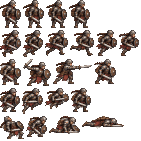
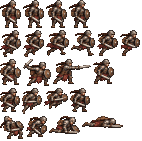
Clean up the female warrior's cut-out
The female warrior sheets had white/grey leftover pixels around the outline
(skirt, knees, shield rim, death poses). Both raw sheets were sent back to
ChatGPT to remove the fringe while keeping every pose and frame position,
then re-sliced with tools/animate.py (warrior_f, warrior_f_block).

Also adds CLAUDE.md, a guide to the project for future Claude Code sessions.

diff --git a/assets/anim/anims.js b/assets/anim/anims.js
@@ -1,2 +1,2 @@
 // generated by tools/animate.py: frame = [x, y, w, h, anchorX, anchorY] in art pixels
-window.ANIMS = {"warrior":{"fly":false,"anims":{"idle":[[0,0,20,28,9.9,28],[22,0,20,28,10.2,28],[44,0,20,28,10.4,28],[66,0,20,28,10.4,28]],"run":[[0,30,23,27,9.6,27],[25,30,22,25,8.9,25],[49,30,21,25,8.4,25],[72,30,23,26,11.0,26],[97,30,21,25,7.6,25],[120,30,21,26,7.4,26]],"attack":[[0,59,23,27,10.7,27],[25,59,30,29,16.0,29],[57,59,41,27,12.5,27],[100,59,24,27,11.4,27]],"jump":[[0,90,23,23,10.6,23],[25,90,24,26,9.6,26],[51,90,25,23,9.2,23],[78,90,23,25,10.6,25]],"death":[[0,118,23,25,13.1,25],[25,118,21,23,9.8,23],[48,118,29,18,15.3,18],[79,118,43,12,21.2,12]]}},"archer":{"fly":false,"anims":{"idle":[[0,0,21,28,7.9,28],[23,0,20,28,7.4,28],[45,0,21,28,7.9,28],[68,0,21,28,8.1,28]],"run":[[0,30,26,27,10.1,27],[28,30,25,26,9.6,26],[55,30,26,26,10.2,26],[83,30,25,26,12.3,26],[110,30,25,25,9.8,25],[137,30,24,26,8.6,26]],"attack":[[0,59,22,27,8.7,27],[24,59,26,27,11.2,27],[52,59,30,28,10.7,28],[84,59,25,27,9.2,27]],"jump":[[0,89,24,22,9.7,22],[26,89,24,23,9.3,23],[52,89,26,22,11.8,22],[80,89,24,23,10.2,23]],"death":[[0,114,24,26,12.9,26],[26,114,26,22,11.2,22],[54,114,31,19,13.7,19],[87,114,45,13,20.5,13]]}},"rogue":{"fly":false,"anims":{"idle":[[0,0,29,27,13.1,27],[31,0,28,28,12.1,28],[61,0,29,26,12.4,26],[92,0,28,25,12.0,25]],"run":[[0,30,29,26,11.0,26],[31,30,30,26,12.3,26],[63,30,33,24,15.8,24],[98,30,32,25,13.2,25],[132,30,30,26,14.7,26],[164,30,29,25,14.3,25]],"attack":[[0,58,27,23,12.5,23],[29,58,35,24,14.2,24],[66,58,45,24,15.9,24],[113,58,29,23,12.8,23]],"jump":[[0,84,27,21,13.5,21],[29,84,28,26,12.6,26],[59,84,28,21,12.7,21],[89,84,28,28,16.8,28]],"death":[[0,114,24,22,12.9,22],[26,114,26,21,12.2,21],[54,114,27,16,13.1,16],[83,114,41,10,19.5,10]]}},"beastmaster":{"fly":false,"anims":{"idle":[[0,0,23,28,11.5,28],[25,0,22,28,10.7,28],[49,0,22,28,11.0,28],[73,0,21,28,10.5,28]],"run":[[0,30,24,26,10.6,26],[26,30,23,26,11.6,26],[51,30,25,23,11.9,23],[78,30,23,26,13.1,26],[103,30,23,26,11.3,26],[128,30,22,26,10.5,26]],"attack":[[0,58,28,26,14.6,26],[30,58,35,28,20.5,28],[67,58,65,24,12.5,24],[134,58,24,26,11.8,26]],"jump":[[0,88,24,21,12.4,21],[26,88,26,28,8.7,28],[54,88,28,23,13.3,23],[84,88,25,29,14.6,29]],"death":[[0,119,26,25,13.5,25],[28,119,24,23,8.9,23],[54,119,35,18,15.6,18],[91,119,45,12,21.3,12]]}},"warrior_f":{"fly":false,"anims":{"idle":[[0,0,21,28,11.3,28],[23,0,21,28,11.0,28],[46,0,21,28,11.5,28],[69,0,21,28,11.5,28]],"run":[[0,30,21,27,8.0,27],[23,30,20,27,7.1,27],[45,30,23,26,10.1,26],[70,30,24,26,12.3,26],[96,30,21,26,7.5,26],[119,30,20,26,6.9,26]],"attack":[[0,59,21,26,10.2,26],[23,59,28,27,15.4,27],[53,59,39,25,11.0,25],[94,59,22,25,10.6,25]],"jump":[[0,88,20,24,8.7,24],[22,88,21,26,6.6,26],[45,88,24,21,8.9,21],[71,88,20,24,9.2,24]],"death":[[0,116,24,23,14.7,23],[26,116,21,21,10.2,21],[49,116,31,18,16.1,18],[82,116,42,13,20.8,13]]}},"archer_f":{"fly":false,"anims":{"idle":[[0,0,22,28,9.1,28],[24,0,21,28,8.6,28],[47,0,21,28,8.7,28],[70,0,21,28,8.5,28]],"run":[[0,30,23,27,8.8,27],[25,30,24,26,10.3,26],[51,30,24,26,9.1,26],[77,30,25,26,13.0,26],[104,30,25,25,10.7,25],[131,30,23,27,9.0,27]],"attack":[[0,59,22,25,9.4,25],[24,59,24,25,10.2,25],[50,59,30,26,10.2,26],[82,59,24,25,10.4,25]],"jump":[[0,87,19,18,8.6,18],[21,87,21,21,9.3,21],[44,87,23,21,10.1,21],[69,87,23,21,10.4,21]],"death":[[0,110,22,18,11.1,18],[24,110,22,16,11.2,16],[48,110,28,14,12.9,14],[78,110,38,11,18.2,11]]}},"rogue_f":{"fly":false,"anims":{"idle":[[0,0,23,27,10.8,27],[25,0,21,28,9.1,28],[48,0,23,27,10.3,27],[73,0,23,27,10.3,27]],"run":[[0,30,20,25,6.7,25],[22,30,20,26,6.1,26],[44,30,22,26,6.0,26],[68,30,20,25,7.4,25],[90,30,21,26,7.7,26],[113,30,19,24,7.7,24]],"attack":[[0,58,23,27,10.3,27],[25,58,27,29,11.3,29],[54,58,34,25,10.0,25],[90,58,23,26,10.0,26]],"jump":[[0,89,19,20,7.6,20],[21,89,22,26,7.0,26],[45,89,23,22,7.9,22],[70,89,22,25,11.5,25]],"death":[[0,117,25,26,12.2,26],[27,117,22,24,10.3,24],[51,117,23,19,10.1,19],[76,117,34,11,16.6,11]]}},"beastmaster_f":{"fly":false,"anims":{"idle":[[0,0,21,28,9.8,28],[23,0,19,28,8.6,28],[44,0,20,28,9.1,28],[66,0,20,28,9.4,28]],"run":[[0,30,19,24,6.2,24],[21,30,20,24,6.7,24],[43,30,20,24,5.7,24],[65,30,20,24,8.4,24],[87,30,20,25,6.8,25],[109,30,19,24,6.2,24]],"attack":[[0,57,24,27,11.9,27],[26,57,26,29,9.6,29],[54,57,40,25,10.4,25],[96,57,22,27,10.1,27]],"jump":[[0,88,21,20,8.9,20],[23,88,23,28,7.6,28],[48,88,22,21,9.1,21],[72,88,21,24,9.3,24]],"death":[[0,118,25,26,11.2,26],[27,118,21,24,9.8,24],[50,118,26,20,11.7,20],[78,118,37,12,18.1,12]]}},"warrior_f_block":{"fly":false,"anims":{"idle":[[0,0,21,28,10.3,28],[23,0,21,28,9.9,28],[46,0,21,27,10.1,27],[69,0,21,27,10.3,27]],"block":[[0,30,23,26,10.7,26],[25,30,24,24,11.8,24],[51,30,27,24,12.2,24],[80,30,22,25,10.4,25]]}},"archer_f_arcane":{"fly":false,"anims":{"idle":[[0,0,22,28,8.6,28],[24,0,21,28,8.6,28],[47,0,21,28,8.6,28],[70,0,20,28,8.1,28]],"arcane":[[0,30,24,28,10.9,28],[26,30,27,30,10.7,30],[55,30,39,30,11.0,30],[96,30,25,27,10.6,27]]}},"slime":{"fly":false,"anims":{"idle":[[0,0,19,11,8.7,11],[21,0,19,11,8.9,11],[42,0,18,14,8.5,14],[62,0,19,12,8.9,12]],"hop":[[0,16,18,7,8.4,7],[20,16,18,19,7.2,19],[40,16,16,13,7.1,13],[58,16,22,11,10.5,11]],"death":[[0,37,19,16,8.8,16],[21,37,22,12,10.6,12],[45,37,21,7,9.9,7],[68,37,19,5,9.9,5]]}},"bat":{"fly":true,"anims":{"fly":[[0,0,18,20,8.8,9.2],[20,0,18,14,8.8,5.9],[40,0,18,13,9.5,6.0],[60,0,17,11,8.1,5.1],[79,0,20,14,10.0,5.5],[101,0,17,20,7.8,9.1]],"attack":[[0,22,22,20,11.1,9.1],[24,22,22,17,11.8,7.8],[48,22,29,18,13.1,7.8],[79,22,23,11,12.2,4.6]],"death":[[0,44,26,21,13.3,9.4],[28,44,19,16,9.5,7.9],[49,44,17,18,7.6,10.3],[68,44,22,7,11.7,3.6]]}},"skeleton":{"fly":false,"anims":{"idle":[[0,0,20,26,6.4,26],[22,0,20,26,6.4,26],[44,0,20,26,6.7,26],[66,0,19,26,6.2,26]],"walk":[[0,28,21,25,6.6,25],[23,28,20,25,6.6,25],[45,28,19,25,5.6,25],[66,28,19,24,5.2,24],[87,28,21,24,7.2,24],[110,28,19,25,4.8,25]],"attack":[[0,55,20,25,7.5,25],[22,55,23,29,14.0,29],[47,55,38,25,9.7,25],[87,55,20,25,8.1,25]],"jump":[[0,86,21,21,7.5,21],[23,86,23,25,6.8,25],[48,86,22,22,7.4,22]],"death":[[0,113,25,24,9.0,24],[27,113,25,24,10.8,24],[54,113,32,16,14.8,16],[88,113,37,10,18.8,10]]}},"goblin":{"fly":false,"anims":{"idle":[[0,0,17,21,6.8,21],[19,0,17,21,6.8,21],[38,0,17,20,6.8,20],[57,0,17,21,7.0,21]],"walk":[[0,23,17,19,6.3,19],[19,23,16,19,5.2,19],[37,23,16,20,4.4,20],[55,23,19,19,7.7,19],[76,23,18,19,6.7,19],[96,23,17,19,6.0,19]],"attack":[[0,45,20,22,7.8,22],[22,45,20,23,8.2,23],[44,45,23,23,8.6,23],[69,45,22,22,9.7,22]],"death":[[0,70,22,22,11.6,22],[24,70,27,21,14.1,21],[53,70,31,16,12.7,16],[86,70,38,10,17.4,10]]}},"ghost":{"fly":true,"anims":{"fly":[[0,0,18,23,8.1,10.2],[20,0,18,21,8.3,9.5],[40,0,18,23,8.4,10.5],[60,0,19,21,9.4,9.7],[81,0,19,21,8.9,9.8],[102,0,18,22,8.2,10.0]],"attack":[[0,25,19,22,9.4,9.8],[21,25,26,22,12.9,9.2],[49,25,32,19,15.5,8.7],[83,25,22,21,11.3,10.0]],"death":[[0,49,23,24,11.1,12.1],[25,49,24,24,12.1,11.4],[51,49,27,22,14.6,8.6],[80,49,21,17,10.9,7.2]]}},"brute":{"fly":false,"anims":{"idle":[[0,0,33,33,12.2,33],[35,0,34,33,12.8,33],[71,0,33,33,11.7,33],[106,0,32,32,11.6,32]],"walk":[[0,35,28,32,9.9,32],[30,35,31,31,11.2,31],[63,35,31,32,9.3,32],[96,35,32,32,10.1,32],[130,35,29,31,9.5,31],[161,35,27,31,7.2,31]],"attack":[[0,69,32,42,15.7,42],[34,69,34,31,16.1,31],[70,69,42,31,16.4,31],[114,69,44,32,13.6,32]],"death":[[0,113,37,35,19.0,35],[39,113,42,30,19.0,30],[83,113,45,23,21.5,23],[130,113,55,18,26.9,18]]}},"warden":{"fly":false,"anims":{"idle":[[0,0,59,51,28.2,51],[61,0,61,51,30.1,51],[124,0,60,52,28.4,52],[186,0,59,51,28.6,51]],"walk":[[0,54,57,48,27.1,48],[59,54,57,46,28.5,46],[118,54,52,47,24.5,47],[172,54,55,47,27.4,47],[229,54,55,46,26.9,46],[286,54,53,46,26.0,46]],"attack":[[0,104,58,51,32.5,51],[60,104,53,62,26.6,62],[115,104,76,46,38.4,46],[193,104,87,45,44.2,45]],"leap":[[0,168,56,41,27.8,41],[58,168,57,50,28.3,50],[117,168,58,54,31.4,54],[177,168,92,43,45.4,43]],"death":[[0,224,60,49,32.4,49],[62,224,67,43,32.8,43],[131,224,81,35,39.4,35],[214,224,104,28,48.1,28]]}},"imp":{"fly":true,"anims":{"fly":[[0,0,17,21,7.8,9.1],[19,0,20,16,10.0,6.4],[41,0,21,16,10.1,6.8],[64,0,16,14,7.3,6.7],[82,0,17,16,8.2,6.4],[101,0,18,20,9.1,8.7]],"attack":[[0,23,17,17,8.5,6.8],[19,23,20,18,10.0,6.8],[41,23,34,17,13.0,6.7],[77,23,21,17,9.4,6.9]],"death":[[0,43,21,18,10.6,8.0],[23,43,21,18,10.7,8.1],[46,43,21,17,10.6,7.0],[69,43,5,5,1.3,2.0]]}},"golem":{"fly":false,"anims":{"idle":[[0,0,37,33,17.5,33],[39,0,37,34,17.9,34],[78,0,37,34,18.8,34],[117,0,37,33,17.9,33]],"walk":[[0,36,34,33,15.3,33],[36,36,38,34,15.6,34],[76,36,39,34,17.0,34],[117,36,31,34,14.3,34],[150,36,30,34,13.4,34],[182,36,33,34,15.3,34]],"attack":[[0,72,44,36,19.2,36],[46,72,40,40,19.4,40],[88,72,51,32,23.0,32],[141,72,57,31,26.4,31]],"death":[[0,114,42,36,20.8,36],[44,114,54,33,26.7,33],[100,114,63,26,30.5,26],[165,114,61,26,29.2,26]]}},"cultist":{"fly":false,"anims":{"idle":[[0,0,22,25,7.9,25],[24,0,22,25,8.4,25],[48,0,25,25,11.1,25],[75,0,23,25,9.1,25]],"walk":[[0,27,22,22,8.2,22],[24,27,22,22,9.0,22],[48,27,22,23,9.1,23],[72,27,22,22,9.4,22],[96,27,23,22,9.8,22],[121,27,23,21,9.5,21]],"attack":[[0,52,23,26,10.6,26],[25,52,24,28,10.0,28],[51,52,43,22,10.8,22],[96,52,25,25,9.3,25]],"death":[[0,82,26,28,13.5,28],[28,82,24,24,12.1,24],[54,82,33,12,14.1,12],[89,82,34,7,16.1,7]]}},"spider":{"fly":false,"anims":{"idle":[[0,0,22,12,10.5,12],[24,0,22,13,10.1,13],[48,0,21,14,10.1,14],[71,0,21,12,10.1,12]],"walk":[[0,16,17,10,8.6,10],[19,16,17,10,7.6,10],[38,16,16,10,8.0,10],[56,16,16,10,7.4,10],[74,16,17,10,7.4,10],[93,16,16,9,7.2,9]],"attack":[[0,28,23,11,10.8,11],[25,28,21,13,8.7,13],[48,28,25,11,11.7,11],[75,28,24,12,12.4,12]],"death":[[0,43,21,13,9.4,13],[23,43,20,14,8.4,14],[45,43,20,14,8.9,14],[67,43,22,10,9.9,10]]}},"knight":{"fly":false,"anims":{"idle":[[0,0,26,27,13.0,27],[28,0,27,27,13.5,27],[57,0,27,27,13.9,27],[86,0,25,27,12.7,27]],"walk":[[0,29,22,25,10.4,25],[24,29,24,25,12.7,25],[50,29,24,25,12.6,25],[76,29,24,24,12.7,24],[102,29,24,25,13.1,25],[128,29,24,25,12.7,25]],"attack":[[0,56,29,27,14.4,27],[31,56,33,28,18.5,28],[66,56,46,25,16.1,25],[114,56,28,27,14.3,27]],"death":[[0,86,32,27,16.7,27],[34,86,33,22,17.2,22],[69,86,41,17,21.3,17],[112,86,47,13,23.4,13]]}},"warrior_block":{"fly":false,"anims":{"idle":[[0,0,20,27,10.2,27],[22,0,20,28,10.2,28],[44,0,20,28,10.2,28],[66,0,20,27,10.1,27]],"block":[[0,30,23,27,9.9,27],[25,30,22,26,10.0,26],[49,30,24,26,9.3,26],[75,30,21,28,10.2,28]]}},"archer_arcane":{"fly":false,"anims":{"idle":[[0,0,20,28,7.6,28],[22,0,20,28,8.3,28],[44,0,21,28,8.9,28],[67,0,20,27,8.4,27]],"arcane":[[0,30,25,27,9.6,27],[27,30,28,29,11.0,29],[57,30,37,29,11.3,29],[96,30,28,28,10.4,28]]}},"spiritwolf":{"fly":false,"anims":{"run":[[0,0,32,14,16.4,14],[34,0,31,16,12.8,16],[67,0,30,16,12.0,16],[99,0,30,17,15.2,17],[131,0,28,15,11.8,15],[161,0,32,14,17.2,14]],"attack":[[0,19,36,17,20.0,17],[38,19,43,25,10.2,25],[83,19,53,25,21.5,25],[138,19,42,20,22.5,20]]}},"pet_dog":{"fly":false,"anims":{"idle":[[0,0,21,17,8.9,17],[23,0,20,17,9.4,17],[45,0,20,17,9.8,17],[67,0,20,17,9.4,17]],"run":[[0,19,23,15,9.9,15],[25,19,23,16,7.8,16],[50,19,23,14,9.0,14],[75,19,23,16,9.5,16],[100,19,22,14,9.3,14],[124,19,22,15,8.7,15]],"attack":[[0,37,23,11,10.7,11],[25,37,23,13,9.7,13],[50,37,24,15,9.1,15],[76,37,24,13,11.0,13]],"ko":[[0,54,23,17,7.6,17],[25,54,22,14,7.4,14],[49,54,23,9,10.8,9],[74,54,25,11,12.0,11]]}},"pet_catgray":{"fly":false,"anims":{"idle":[[0,0,12,11,5.5,11],[14,0,12,12,5.6,12],[28,0,11,12,5.0,12],[41,0,15,11,7.3,11]],"run":[[0,14,17,8,8.6,8],[19,14,17,8,8.9,8],[38,14,18,7,8.7,7],[58,14,18,8,10.2,8],[78,14,17,8,9.6,8],[97,14,17,9,9.3,9]],"attack":[[0,25,19,7,11.7,7],[21,25,21,10,8.9,10],[44,25,23,10,10.4,10],[69,25,19,8,10.9,8]],"ko":[[0,37,14,9,7.5,9],[16,37,18,8,6.6,8],[36,37,18,5,8.6,5],[56,37,12,10,5.2,10]]}},"pet_catcalico":{"fly":false,"anims":{"idle":[[0,0,16,12,7.7,12],[18,0,17,12,7.9,12],[37,0,18,12,8.1,12],[57,0,18,12,8.7,12]],"run":[[0,14,23,8,13.5,8],[25,14,21,9,10.5,9],[48,14,25,9,12.5,9],[75,14,24,8,12.8,8],[101,14,22,8,12.8,8],[125,14,21,9,10.7,9]],"attack":[[0,25,21,7,12.0,7],[23,25,24,9,11.0,9],[49,25,30,11,7.5,11],[81,25,23,6,11.7,6]],"ko":[[0,38,20,10,10.7,10],[22,38,20,8,10.2,8],[44,38,22,6,10.9,6],[68,38,14,9,5.8,9]]}},"pet_cockatiel":{"fly":true,"anims":{"fly":[[0,0,17,16,9.3,8.0],[19,0,16,12,7.7,4.9],[37,0,19,10,10.1,5.1],[58,0,18,13,10.0,5.9],[78,0,17,13,10.2,6.2],[97,0,16,10,9.0,4.6]],"attack":[[0,18,14,16,5.4,7.1],[16,18,19,12,9.5,6.5],[37,18,19,13,8.7,6.4],[58,18,17,15,8.3,7.3]],"ko":[[0,36,15,15,6.9,6.6],[17,36,15,13,7.5,6.3],[34,36,18,9,9.5,4.9],[54,36,18,8,9.5,5.2]]}},"pet_dragon":{"fly":true,"anims":{"fly":[[0,0,24,20,12.4,10.0],[26,0,24,17,11.8,7.3],[52,0,24,15,12.8,7.4],[78,0,25,17,14.1,7.9],[105,0,24,20,13.8,9.6],[131,0,23,15,11.4,5.9]],"attack":[[0,22,24,18,13.1,9.1],[26,22,26,17,14.0,8.2],[54,22,40,15,18.0,6.1],[96,22,27,14,14.1,6.4]],"ko":[[0,42,23,19,12.2,7.3],[25,42,24,16,11.7,8.5],[51,42,28,11,13.5,5.8],[81,42,30,11,14.2,6.8]]}},"pet_fox":{"fly":false,"anims":{"idle":[[0,0,16,14,6.9,14],[18,0,16,14,6.5,14],[36,0,16,14,6.6,14],[54,0,17,14,7.4,14]],"run":[[0,16,21,10,10.9,10],[23,16,22,10,11.7,10],[47,16,22,9,11.5,9],[71,16,22,10,12.2,10],[95,16,21,11,11.5,11],[118,16,21,11,11.2,11]],"attack":[[0,29,22,8,10.7,8],[24,29,24,11,11.2,11],[50,29,24,12,9.9,12],[76,29,24,9,13.5,9]],"ko":[[0,43,17,12,6.7,12],[19,43,20,15,8.4,15],[41,43,21,7,10.0,7],[64,43,17,11,7.1,11]]}},"pet_owl":{"fly":true,"anims":{"fly":[[0,0,17,19,8.0,9.5],[19,0,19,15,9.5,6.8],[40,0,21,9,10.5,3.3],[63,0,19,13,9.7,5.1],[84,0,19,15,10.3,6.6],[105,0,18,13,8.9,6.1]],"attack":[[0,21,17,18,8.1,8.3],[19,21,22,18,12.0,7.7],[43,21,29,19,13.4,8.7],[74,21,19,19,9.4,8.5]],"ko":[[0,42,25,19,11.9,9.4],[27,42,21,19,10.9,9.1],[50,42,25,11,11.8,6.1],[77,42,22,13,10.9,8.6]]}},"pet_ferret":{"fly":false,"anims":{"idle":[[0,0,15,21,6.8,21],[17,0,15,21,7.1,21],[34,0,15,20,6.9,20],[51,0,15,20,6.7,20]],"run":[[0,23,25,12,12.7,12],[27,23,26,12,13.1,12],[55,23,26,13,17.5,13],[83,23,27,8,12.9,8],[112,23,26,12,13.2,12],[140,23,25,11,13.5,11]],"attack":[[0,38,22,11,11.7,11],[24,38,24,12,9.8,12],[50,38,24,12,6.9,12],[76,38,23,11,12.6,11]],"ko":[[0,52,20,17,9.7,17],[22,52,19,19,8.2,19],[43,52,27,8,11.8,8],[72,52,17,14,7.9,14]]}},"pet_boar":{"fly":false,"anims":{"idle":[[0,0,25,17,10.4,17],[27,0,27,18,9.6,18],[56,0,25,17,11.9,17],[83,0,24,17,12.8,17]],"run":[[0,20,26,17,11.7,17],[28,20,26,16,11.2,16],[56,20,27,14,13.8,14],[85,20,27,16,14.9,16],[114,20,26,17,13.1,17],[142,20,25,16,12.5,16]],"attack":[[0,39,25,14,13.7,14],[27,39,26,16,11.8,16],[55,39,24,17,8.5,17],[81,39,25,15,12.8,15]],"ko":[[0,58,25,17,11.5,17],[27,58,25,20,11.6,20],[54,58,30,13,13.8,13],[86,58,25,16,11.5,16]]}},"pet_toad":{"fly":false,"anims":{"idle":[[0,0,16,12,7.2,12],[18,0,17,12,7.4,12],[37,0,16,12,7.3,12],[55,0,16,12,7.3,12]],"run":[[0,14,19,10,8.7,10],[21,14,20,12,8.7,12],[43,14,22,15,4.9,15],[67,14,26,11,11.1,11],[95,14,22,14,10.6,14],[119,14,19,11,8.2,11]],"attack":[[0,31,17,11,7.7,11],[19,31,16,12,7.2,12],[37,31,28,12,7.2,12],[67,31,17,11,7.7,11]],"ko":[[0,45,16,13,6.5,13],[18,45,16,15,7.5,15],[36,45,23,9,10.9,9],[61,45,19,14,8.8,14]]}},"pet_dog_rest":{"fly":false,"anims":{"idle":[[0,0,20,17,8.0,17],[22,0,20,17,9.5,17],[44,0,20,17,9.9,17],[66,0,21,17,9.9,17]],"rest":[[0,19,24,9,11.5,9],[26,19,25,9,12.5,9],[53,19,24,9,12.3,9],[79,19,25,9,11.9,9]]}},"pet_catgray_rest":{"fly":false,"anims":{"idle":[[0,0,13,12,6.0,12],[15,0,13,12,5.9,12],[30,0,12,12,4.7,12],[44,0,14,12,6.9,12]],"rest":[[0,14,11,12,4.5,12],[13,14,11,12,4.1,12],[26,14,11,12,3.9,12],[39,14,11,12,4.5,12]]}},"pet_catcalico_rest":{"fly":false,"anims":{"idle":[[0,0,14,20,5.6,20],[16,0,13,20,5.5,20],[31,0,13,20,5.5,20],[46,0,12,20,5.3,20]],"rest":[[0,22,16,15,6.9,15],[18,22,14,9,6.4,9],[34,22,14,10,6.0,10],[50,22,14,9,6.0,9]]}},"pet_cockatiel_rest":{"fly":true,"anims":{"fly":[[0,0,12,16,4.8,6.7],[14,0,12,15,4.5,6.5],[28,0,14,10,6.8,4.2],[44,0,15,11,8.2,5.2],[61,0,12,13,6.3,6.1],[75,0,13,10,6.7,4.6]],"rest":[[0,18,16,14,9.5,7.8],[18,18,14,14,8.4,7.6],[34,18,15,12,8.6,5.9],[51,18,16,16,9.7,9.4]]}},"pet_dragon_rest":{"fly":true,"anims":{"fly":[[0,0,17,24,7.5,9.5],[19,0,17,21,6.7,8.2],[38,0,18,16,8.8,5.4],[58,0,17,14,9.0,6.6],[77,0,17,18,9.0,9.0],[96,0,17,14,8.1,5.1]],"rest":[[0,26,20,17,9.4,9.0],[22,26,20,15,9.9,7.6],[44,26,20,12,9.5,5.5],[66,26,19,12,9.1,5.8]]}},"pet_fox_rest":{"fly":false,"anims":{"idle":[[0,0,15,20,6.5,20],[17,0,15,20,6.5,20],[34,0,15,20,6.5,20],[51,0,15,20,6.4,20]],"rest":[[0,22,14,10,6.3,10],[16,22,13,10,6.1,10],[31,22,13,9,6.1,9],[46,22,14,9,6.3,9]]}},"pet_owl_rest":{"fly":true,"anims":{"fly":[[0,0,14,19,5.8,8.3],[16,0,14,17,5.9,7.1],[32,0,17,10,8.1,4.0],[51,0,15,13,7.9,6.4],[68,0,14,15,7.2,6.8],[84,0,15,11,8.1,5.1]],"rest":[[0,21,16,18,8.3,8.9],[18,21,15,19,8.1,9.5],[35,21,15,19,7.8,9.5],[52,21,16,19,8.3,9.4]]}},"pet_ferret_rest":{"fly":false,"anims":{"idle":[[0,0,20,14,7.2,14],[22,0,19,15,7.5,15],[43,0,19,15,7.4,15],[64,0,19,15,7.8,15]],"rest":[[0,17,18,15,9.2,15],[20,17,18,14,8.0,14],[40,17,20,14,9.9,14],[62,17,21,9,9.6,9]]}},"pet_boar_rest":{"fly":false,"anims":{"idle":[[0,0,21,17,7.9,17],[23,0,21,17,8.1,17],[46,0,21,17,7.9,17],[69,0,21,17,7.6,17]],"rest":[[0,19,22,18,11.3,18],[24,19,22,17,11.2,17],[48,19,21,18,11.1,18],[71,19,21,18,8.6,18]]}},"pet_toad_rest":{"fly":false,"anims":{"idle":[[0,0,16,12,7.1,12],[18,0,16,13,7.1,13],[36,0,16,12,7.1,12],[54,0,16,12,7.1,12]],"rest":[[0,15,17,13,7.0,13],[19,15,17,13,7.3,13],[38,15,17,13,7.5,13],[57,15,17,13,7.5,13]]}}};
+window.ANIMS = {"warrior":{"fly":false,"anims":{"idle":[[0,0,20,28,9.9,28],[22,0,20,28,10.2,28],[44,0,20,28,10.4,28],[66,0,20,28,10.4,28]],"run":[[0,30,23,27,9.6,27],[25,30,22,25,8.9,25],[49,30,21,25,8.4,25],[72,30,23,26,11.0,26],[97,30,21,25,7.6,25],[120,30,21,26,7.4,26]],"attack":[[0,59,23,27,10.7,27],[25,59,30,29,16.0,29],[57,59,41,27,12.5,27],[100,59,24,27,11.4,27]],"jump":[[0,90,23,23,10.6,23],[25,90,24,26,9.6,26],[51,90,25,23,9.2,23],[78,90,23,25,10.6,25]],"death":[[0,118,23,25,13.1,25],[25,118,21,23,9.8,23],[48,118,29,18,15.3,18],[79,118,43,12,21.2,12]]}},"archer":{"fly":false,"anims":{"idle":[[0,0,21,28,7.9,28],[23,0,20,28,7.4,28],[45,0,21,28,7.9,28],[68,0,21,28,8.1,28]],"run":[[0,30,26,27,10.1,27],[28,30,25,26,9.6,26],[55,30,26,26,10.2,26],[83,30,25,26,12.3,26],[110,30,25,25,9.8,25],[137,30,24,26,8.6,26]],"attack":[[0,59,22,27,8.7,27],[24,59,26,27,11.2,27],[52,59,30,28,10.7,28],[84,59,25,27,9.2,27]],"jump":[[0,89,24,22,9.7,22],[26,89,24,23,9.3,23],[52,89,26,22,11.8,22],[80,89,24,23,10.2,23]],"death":[[0,114,24,26,12.9,26],[26,114,26,22,11.2,22],[54,114,31,19,13.7,19],[87,114,45,13,20.5,13]]}},"rogue":{"fly":false,"anims":{"idle":[[0,0,29,27,13.1,27],[31,0,28,28,12.1,28],[61,0,29,26,12.4,26],[92,0,28,25,12.0,25]],"run":[[0,30,29,26,11.0,26],[31,30,30,26,12.3,26],[63,30,33,24,15.8,24],[98,30,32,25,13.2,25],[132,30,30,26,14.7,26],[164,30,29,25,14.3,25]],"attack":[[0,58,27,23,12.5,23],[29,58,35,24,14.2,24],[66,58,45,24,15.9,24],[113,58,29,23,12.8,23]],"jump":[[0,84,27,21,13.5,21],[29,84,28,26,12.6,26],[59,84,28,21,12.7,21],[89,84,28,28,16.8,28]],"death":[[0,114,24,22,12.9,22],[26,114,26,21,12.2,21],[54,114,27,16,13.1,16],[83,114,41,10,19.5,10]]}},"beastmaster":{"fly":false,"anims":{"idle":[[0,0,23,28,11.5,28],[25,0,22,28,10.7,28],[49,0,22,28,11.0,28],[73,0,21,28,10.5,28]],"run":[[0,30,24,26,10.6,26],[26,30,23,26,11.6,26],[51,30,25,23,11.9,23],[78,30,23,26,13.1,26],[103,30,23,26,11.3,26],[128,30,22,26,10.5,26]],"attack":[[0,58,28,26,14.6,26],[30,58,35,28,20.5,28],[67,58,65,24,12.5,24],[134,58,24,26,11.8,26]],"jump":[[0,88,24,21,12.4,21],[26,88,26,28,8.7,28],[54,88,28,23,13.3,23],[84,88,25,29,14.6,29]],"death":[[0,119,26,25,13.5,25],[28,119,24,23,8.9,23],[54,119,35,18,15.6,18],[91,119,45,12,21.3,12]]}},"warrior_f":{"fly":false,"anims":{"idle":[[0,0,21,28,11.0,28],[23,0,21,28,11.1,28],[46,0,21,28,11.4,28],[69,0,21,28,11.4,28]],"run":[[0,30,21,27,8.3,27],[23,30,21,27,7.9,27],[46,30,23,26,10.1,26],[71,30,24,26,12.5,26],[97,30,21,26,7.7,26],[120,30,20,26,7.1,26]],"attack":[[0,59,21,26,10.1,26],[23,59,28,27,15.5,27],[53,59,38,25,10.4,25],[93,59,21,25,9.8,25]],"jump":[[0,88,20,24,9.0,24],[22,88,20,26,6.2,26],[44,88,24,21,8.9,21],[70,88,20,24,9.3,24]],"death":[[0,116,24,23,14.5,23],[26,116,21,21,10.1,21],[49,116,31,18,16.3,18],[82,116,41,12,20.7,12]]}},"archer_f":{"fly":false,"anims":{"idle":[[0,0,22,28,9.1,28],[24,0,21,28,8.6,28],[47,0,21,28,8.7,28],[70,0,21,28,8.5,28]],"run":[[0,30,23,27,8.8,27],[25,30,24,26,10.3,26],[51,30,24,26,9.1,26],[77,30,25,26,13.0,26],[104,30,25,25,10.7,25],[131,30,23,27,9.0,27]],"attack":[[0,59,22,25,9.4,25],[24,59,24,25,10.2,25],[50,59,30,26,10.2,26],[82,59,24,25,10.4,25]],"jump":[[0,87,19,18,8.6,18],[21,87,21,21,9.3,21],[44,87,23,21,10.1,21],[69,87,23,21,10.4,21]],"death":[[0,110,22,18,11.1,18],[24,110,22,16,11.2,16],[48,110,28,14,12.9,14],[78,110,38,11,18.2,11]]}},"rogue_f":{"fly":false,"anims":{"idle":[[0,0,23,27,10.8,27],[25,0,21,28,9.1,28],[48,0,23,27,10.3,27],[73,0,23,27,10.3,27]],"run":[[0,30,20,25,6.7,25],[22,30,20,26,6.1,26],[44,30,22,26,6.0,26],[68,30,20,25,7.4,25],[90,30,21,26,7.7,26],[113,30,19,24,7.7,24]],"attack":[[0,58,23,27,10.3,27],[25,58,27,29,11.3,29],[54,58,34,25,10.0,25],[90,58,23,26,10.0,26]],"jump":[[0,89,19,20,7.6,20],[21,89,22,26,7.0,26],[45,89,23,22,7.9,22],[70,89,22,25,11.5,25]],"death":[[0,117,25,26,12.2,26],[27,117,22,24,10.3,24],[51,117,23,19,10.1,19],[76,117,34,11,16.6,11]]}},"beastmaster_f":{"fly":false,"anims":{"idle":[[0,0,21,28,9.8,28],[23,0,19,28,8.6,28],[44,0,20,28,9.1,28],[66,0,20,28,9.4,28]],"run":[[0,30,19,24,6.2,24],[21,30,20,24,6.7,24],[43,30,20,24,5.7,24],[65,30,20,24,8.4,24],[87,30,20,25,6.8,25],[109,30,19,24,6.2,24]],"attack":[[0,57,24,27,11.9,27],[26,57,26,29,9.6,29],[54,57,40,25,10.4,25],[96,57,22,27,10.1,27]],"jump":[[0,88,21,20,8.9,20],[23,88,23,28,7.6,28],[48,88,22,21,9.1,21],[72,88,21,24,9.3,24]],"death":[[0,118,25,26,11.2,26],[27,118,21,24,9.8,24],[50,118,26,20,11.7,20],[78,118,37,12,18.1,12]]}},"warrior_f_block":{"fly":false,"anims":{"idle":[[0,0,21,28,10.1,28],[23,0,21,28,9.9,28],[46,0,21,27,10.1,27],[69,0,21,27,10.1,27]],"block":[[0,30,23,26,10.7,26],[25,30,24,24,11.7,24],[51,30,27,24,12.3,24],[80,30,22,25,10.6,25]]}},"archer_f_arcane":{"fly":false,"anims":{"idle":[[0,0,22,28,8.6,28],[24,0,21,28,8.6,28],[47,0,21,28,8.6,28],[70,0,20,28,8.1,28]],"arcane":[[0,30,24,28,10.9,28],[26,30,27,30,10.7,30],[55,30,39,30,11.0,30],[96,30,25,27,10.6,27]]}},"slime":{"fly":false,"anims":{"idle":[[0,0,19,11,8.7,11],[21,0,19,11,8.9,11],[42,0,18,14,8.5,14],[62,0,19,12,8.9,12]],"hop":[[0,16,18,7,8.4,7],[20,16,18,19,7.2,19],[40,16,16,13,7.1,13],[58,16,22,11,10.5,11]],"death":[[0,37,19,16,8.8,16],[21,37,22,12,10.6,12],[45,37,21,7,9.9,7],[68,37,19,5,9.9,5]]}},"bat":{"fly":true,"anims":{"fly":[[0,0,18,20,8.8,9.2],[20,0,18,14,8.8,5.9],[40,0,18,13,9.5,6.0],[60,0,17,11,8.1,5.1],[79,0,20,14,10.0,5.5],[101,0,17,20,7.8,9.1]],"attack":[[0,22,22,20,11.1,9.1],[24,22,22,17,11.8,7.8],[48,22,29,18,13.1,7.8],[79,22,23,11,12.2,4.6]],"death":[[0,44,26,21,13.3,9.4],[28,44,19,16,9.5,7.9],[49,44,17,18,7.6,10.3],[68,44,22,7,11.7,3.6]]}},"skeleton":{"fly":false,"anims":{"idle":[[0,0,20,26,6.4,26],[22,0,20,26,6.4,26],[44,0,20,26,6.7,26],[66,0,19,26,6.2,26]],"walk":[[0,28,21,25,6.6,25],[23,28,20,25,6.6,25],[45,28,19,25,5.6,25],[66,28,19,24,5.2,24],[87,28,21,24,7.2,24],[110,28,19,25,4.8,25]],"attack":[[0,55,20,25,7.5,25],[22,55,23,29,14.0,29],[47,55,38,25,9.7,25],[87,55,20,25,8.1,25]],"jump":[[0,86,21,21,7.5,21],[23,86,23,25,6.8,25],[48,86,22,22,7.4,22]],"death":[[0,113,25,24,9.0,24],[27,113,25,24,10.8,24],[54,113,32,16,14.8,16],[88,113,37,10,18.8,10]]}},"goblin":{"fly":false,"anims":{"idle":[[0,0,17,21,6.8,21],[19,0,17,21,6.8,21],[38,0,17,20,6.8,20],[57,0,17,21,7.0,21]],"walk":[[0,23,17,19,6.3,19],[19,23,16,19,5.2,19],[37,23,16,20,4.4,20],[55,23,19,19,7.7,19],[76,23,18,19,6.7,19],[96,23,17,19,6.0,19]],"attack":[[0,45,20,22,7.8,22],[22,45,20,23,8.2,23],[44,45,23,23,8.6,23],[69,45,22,22,9.7,22]],"death":[[0,70,22,22,11.6,22],[24,70,27,21,14.1,21],[53,70,31,16,12.7,16],[86,70,38,10,17.4,10]]}},"ghost":{"fly":true,"anims":{"fly":[[0,0,18,23,8.1,10.2],[20,0,18,21,8.3,9.5],[40,0,18,23,8.4,10.5],[60,0,19,21,9.4,9.7],[81,0,19,21,8.9,9.8],[102,0,18,22,8.2,10.0]],"attack":[[0,25,19,22,9.4,9.8],[21,25,26,22,12.9,9.2],[49,25,32,19,15.5,8.7],[83,25,22,21,11.3,10.0]],"death":[[0,49,23,24,11.1,12.1],[25,49,24,24,12.1,11.4],[51,49,27,22,14.6,8.6],[80,49,21,17,10.9,7.2]]}},"brute":{"fly":false,"anims":{"idle":[[0,0,33,33,12.2,33],[35,0,34,33,12.8,33],[71,0,33,33,11.7,33],[106,0,32,32,11.6,32]],"walk":[[0,35,28,32,9.9,32],[30,35,31,31,11.2,31],[63,35,31,32,9.3,32],[96,35,32,32,10.1,32],[130,35,29,31,9.5,31],[161,35,27,31,7.2,31]],"attack":[[0,69,32,42,15.7,42],[34,69,34,31,16.1,31],[70,69,42,31,16.4,31],[114,69,44,32,13.6,32]],"death":[[0,113,37,35,19.0,35],[39,113,42,30,19.0,30],[83,113,45,23,21.5,23],[130,113,55,18,26.9,18]]}},"warden":{"fly":false,"anims":{"idle":[[0,0,59,51,28.2,51],[61,0,61,51,30.1,51],[124,0,60,52,28.4,52],[186,0,59,51,28.6,51]],"walk":[[0,54,57,48,27.1,48],[59,54,57,46,28.5,46],[118,54,52,47,24.5,47],[172,54,55,47,27.4,47],[229,54,55,46,26.9,46],[286,54,53,46,26.0,46]],"attack":[[0,104,58,51,32.5,51],[60,104,53,62,26.6,62],[115,104,76,46,38.4,46],[193,104,87,45,44.2,45]],"leap":[[0,168,56,41,27.8,41],[58,168,57,50,28.3,50],[117,168,58,54,31.4,54],[177,168,92,43,45.4,43]],"death":[[0,224,60,49,32.4,49],[62,224,67,43,32.8,43],[131,224,81,35,39.4,35],[214,224,104,28,48.1,28]]}},"imp":{"fly":true,"anims":{"fly":[[0,0,17,21,7.8,9.1],[19,0,20,16,10.0,6.4],[41,0,21,16,10.1,6.8],[64,0,16,14,7.3,6.7],[82,0,17,16,8.2,6.4],[101,0,18,20,9.1,8.7]],"attack":[[0,23,17,17,8.5,6.8],[19,23,20,18,10.0,6.8],[41,23,34,17,13.0,6.7],[77,23,21,17,9.4,6.9]],"death":[[0,43,21,18,10.6,8.0],[23,43,21,18,10.7,8.1],[46,43,21,17,10.6,7.0],[69,43,5,5,1.3,2.0]]}},"golem":{"fly":false,"anims":{"idle":[[0,0,37,33,17.5,33],[39,0,37,34,17.9,34],[78,0,37,34,18.8,34],[117,0,37,33,17.9,33]],"walk":[[0,36,34,33,15.3,33],[36,36,38,34,15.6,34],[76,36,39,34,17.0,34],[117,36,31,34,14.3,34],[150,36,30,34,13.4,34],[182,36,33,34,15.3,34]],"attack":[[0,72,44,36,19.2,36],[46,72,40,40,19.4,40],[88,72,51,32,23.0,32],[141,72,57,31,26.4,31]],"death":[[0,114,42,36,20.8,36],[44,114,54,33,26.7,33],[100,114,63,26,30.5,26],[165,114,61,26,29.2,26]]}},"cultist":{"fly":false,"anims":{"idle":[[0,0,22,25,7.9,25],[24,0,22,25,8.4,25],[48,0,25,25,11.1,25],[75,0,23,25,9.1,25]],"walk":[[0,27,22,22,8.2,22],[24,27,22,22,9.0,22],[48,27,22,23,9.1,23],[72,27,22,22,9.4,22],[96,27,23,22,9.8,22],[121,27,23,21,9.5,21]],"attack":[[0,52,23,26,10.6,26],[25,52,24,28,10.0,28],[51,52,43,22,10.8,22],[96,52,25,25,9.3,25]],"death":[[0,82,26,28,13.5,28],[28,82,24,24,12.1,24],[54,82,33,12,14.1,12],[89,82,34,7,16.1,7]]}},"spider":{"fly":false,"anims":{"idle":[[0,0,22,12,10.5,12],[24,0,22,13,10.1,13],[48,0,21,14,10.1,14],[71,0,21,12,10.1,12]],"walk":[[0,16,17,10,8.6,10],[19,16,17,10,7.6,10],[38,16,16,10,8.0,10],[56,16,16,10,7.4,10],[74,16,17,10,7.4,10],[93,16,16,9,7.2,9]],"attack":[[0,28,23,11,10.8,11],[25,28,21,13,8.7,13],[48,28,25,11,11.7,11],[75,28,24,12,12.4,12]],"death":[[0,43,21,13,9.4,13],[23,43,20,14,8.4,14],[45,43,20,14,8.9,14],[67,43,22,10,9.9,10]]}},"knight":{"fly":false,"anims":{"idle":[[0,0,26,27,13.0,27],[28,0,27,27,13.5,27],[57,0,27,27,13.9,27],[86,0,25,27,12.7,27]],"walk":[[0,29,22,25,10.4,25],[24,29,24,25,12.7,25],[50,29,24,25,12.6,25],[76,29,24,24,12.7,24],[102,29,24,25,13.1,25],[128,29,24,25,12.7,25]],"attack":[[0,56,29,27,14.4,27],[31,56,33,28,18.5,28],[66,56,46,25,16.1,25],[114,56,28,27,14.3,27]],"death":[[0,86,32,27,16.7,27],[34,86,33,22,17.2,22],[69,86,41,17,21.3,17],[112,86,47,13,23.4,13]]}},"warrior_block":{"fly":false,"anims":{"idle":[[0,0,20,27,10.2,27],[22,0,20,28,10.2,28],[44,0,20,28,10.2,28],[66,0,20,27,10.1,27]],"block":[[0,30,23,27,9.9,27],[25,30,22,26,10.0,26],[49,30,24,26,9.3,26],[75,30,21,28,10.2,28]]}},"archer_arcane":{"fly":false,"anims":{"idle":[[0,0,20,28,7.6,28],[22,0,20,28,8.3,28],[44,0,21,28,8.9,28],[67,0,20,27,8.4,27]],"arcane":[[0,30,25,27,9.6,27],[27,30,28,29,11.0,29],[57,30,37,29,11.3,29],[96,30,28,28,10.4,28]]}},"spiritwolf":{"fly":false,"anims":{"run":[[0,0,32,14,16.4,14],[34,0,31,16,12.8,16],[67,0,30,16,12.0,16],[99,0,30,17,15.2,17],[131,0,28,15,11.8,15],[161,0,32,14,17.2,14]],"attack":[[0,19,36,17,20.0,17],[38,19,43,25,10.2,25],[83,19,53,25,21.5,25],[138,19,42,20,22.5,20]]}},"pet_dog":{"fly":false,"anims":{"idle":[[0,0,21,17,8.9,17],[23,0,20,17,9.4,17],[45,0,20,17,9.8,17],[67,0,20,17,9.4,17]],"run":[[0,19,23,15,9.9,15],[25,19,23,16,7.8,16],[50,19,23,14,9.0,14],[75,19,23,16,9.5,16],[100,19,22,14,9.3,14],[124,19,22,15,8.7,15]],"attack":[[0,37,23,11,10.7,11],[25,37,23,13,9.7,13],[50,37,24,15,9.1,15],[76,37,24,13,11.0,13]],"ko":[[0,54,23,17,7.6,17],[25,54,22,14,7.4,14],[49,54,23,9,10.8,9],[74,54,25,11,12.0,11]]}},"pet_catgray":{"fly":false,"anims":{"idle":[[0,0,12,11,5.5,11],[14,0,12,12,5.6,12],[28,0,11,12,5.0,12],[41,0,15,11,7.3,11]],"run":[[0,14,17,8,8.6,8],[19,14,17,8,8.9,8],[38,14,18,7,8.7,7],[58,14,18,8,10.2,8],[78,14,17,8,9.6,8],[97,14,17,9,9.3,9]],"attack":[[0,25,19,7,11.7,7],[21,25,21,10,8.9,10],[44,25,23,10,10.4,10],[69,25,19,8,10.9,8]],"ko":[[0,37,14,9,7.5,9],[16,37,18,8,6.6,8],[36,37,18,5,8.6,5],[56,37,12,10,5.2,10]]}},"pet_catcalico":{"fly":false,"anims":{"idle":[[0,0,16,12,7.7,12],[18,0,17,12,7.9,12],[37,0,18,12,8.1,12],[57,0,18,12,8.7,12]],"run":[[0,14,23,8,13.5,8],[25,14,21,9,10.5,9],[48,14,25,9,12.5,9],[75,14,24,8,12.8,8],[101,14,22,8,12.8,8],[125,14,21,9,10.7,9]],"attack":[[0,25,21,7,12.0,7],[23,25,24,9,11.0,9],[49,25,30,11,7.5,11],[81,25,23,6,11.7,6]],"ko":[[0,38,20,10,10.7,10],[22,38,20,8,10.2,8],[44,38,22,6,10.9,6],[68,38,14,9,5.8,9]]}},"pet_cockatiel":{"fly":true,"anims":{"fly":[[0,0,17,16,9.3,8.0],[19,0,16,12,7.7,4.9],[37,0,19,10,10.1,5.1],[58,0,18,13,10.0,5.9],[78,0,17,13,10.2,6.2],[97,0,16,10,9.0,4.6]],"attack":[[0,18,14,16,5.4,7.1],[16,18,19,12,9.5,6.5],[37,18,19,13,8.7,6.4],[58,18,17,15,8.3,7.3]],"ko":[[0,36,15,15,6.9,6.6],[17,36,15,13,7.5,6.3],[34,36,18,9,9.5,4.9],[54,36,18,8,9.5,5.2]]}},"pet_dragon":{"fly":true,"anims":{"fly":[[0,0,24,20,12.4,10.0],[26,0,24,17,11.8,7.3],[52,0,24,15,12.8,7.4],[78,0,25,17,14.1,7.9],[105,0,24,20,13.8,9.6],[131,0,23,15,11.4,5.9]],"attack":[[0,22,24,18,13.1,9.1],[26,22,26,17,14.0,8.2],[54,22,40,15,18.0,6.1],[96,22,27,14,14.1,6.4]],"ko":[[0,42,23,19,12.2,7.3],[25,42,24,16,11.7,8.5],[51,42,28,11,13.5,5.8],[81,42,30,11,14.2,6.8]]}},"pet_fox":{"fly":false,"anims":{"idle":[[0,0,16,14,6.9,14],[18,0,16,14,6.5,14],[36,0,16,14,6.6,14],[54,0,17,14,7.4,14]],"run":[[0,16,21,10,10.9,10],[23,16,22,10,11.7,10],[47,16,22,9,11.5,9],[71,16,22,10,12.2,10],[95,16,21,11,11.5,11],[118,16,21,11,11.2,11]],"attack":[[0,29,22,8,10.7,8],[24,29,24,11,11.2,11],[50,29,24,12,9.9,12],[76,29,24,9,13.5,9]],"ko":[[0,43,17,12,6.7,12],[19,43,20,15,8.4,15],[41,43,21,7,10.0,7],[64,43,17,11,7.1,11]]}},"pet_owl":{"fly":true,"anims":{"fly":[[0,0,17,19,8.0,9.5],[19,0,19,15,9.5,6.8],[40,0,21,9,10.5,3.3],[63,0,19,13,9.7,5.1],[84,0,19,15,10.3,6.6],[105,0,18,13,8.9,6.1]],"attack":[[0,21,17,18,8.1,8.3],[19,21,22,18,12.0,7.7],[43,21,29,19,13.4,8.7],[74,21,19,19,9.4,8.5]],"ko":[[0,42,25,19,11.9,9.4],[27,42,21,19,10.9,9.1],[50,42,25,11,11.8,6.1],[77,42,22,13,10.9,8.6]]}},"pet_ferret":{"fly":false,"anims":{"idle":[[0,0,15,21,6.8,21],[17,0,15,21,7.1,21],[34,0,15,20,6.9,20],[51,0,15,20,6.7,20]],"run":[[0,23,25,12,12.7,12],[27,23,26,12,13.1,12],[55,23,26,13,17.5,13],[83,23,27,8,12.9,8],[112,23,26,12,13.2,12],[140,23,25,11,13.5,11]],"attack":[[0,38,22,11,11.7,11],[24,38,24,12,9.8,12],[50,38,24,12,6.9,12],[76,38,23,11,12.6,11]],"ko":[[0,52,20,17,9.7,17],[22,52,19,19,8.2,19],[43,52,27,8,11.8,8],[72,52,17,14,7.9,14]]}},"pet_boar":{"fly":false,"anims":{"idle":[[0,0,25,17,10.4,17],[27,0,27,18,9.6,18],[56,0,25,17,11.9,17],[83,0,24,17,12.8,17]],"run":[[0,20,26,17,11.7,17],[28,20,26,16,11.2,16],[56,20,27,14,13.8,14],[85,20,27,16,14.9,16],[114,20,26,17,13.1,17],[142,20,25,16,12.5,16]],"attack":[[0,39,25,14,13.7,14],[27,39,26,16,11.8,16],[55,39,24,17,8.5,17],[81,39,25,15,12.8,15]],"ko":[[0,58,25,17,11.5,17],[27,58,25,20,11.6,20],[54,58,30,13,13.8,13],[86,58,25,16,11.5,16]]}},"pet_toad":{"fly":false,"anims":{"idle":[[0,0,16,12,7.2,12],[18,0,17,12,7.4,12],[37,0,16,12,7.3,12],[55,0,16,12,7.3,12]],"run":[[0,14,19,10,8.7,10],[21,14,20,12,8.7,12],[43,14,22,15,4.9,15],[67,14,26,11,11.1,11],[95,14,22,14,10.6,14],[119,14,19,11,8.2,11]],"attack":[[0,31,17,11,7.7,11],[19,31,16,12,7.2,12],[37,31,28,12,7.2,12],[67,31,17,11,7.7,11]],"ko":[[0,45,16,13,6.5,13],[18,45,16,15,7.5,15],[36,45,23,9,10.9,9],[61,45,19,14,8.8,14]]}},"pet_dog_rest":{"fly":false,"anims":{"idle":[[0,0,20,17,8.0,17],[22,0,20,17,9.5,17],[44,0,20,17,9.9,17],[66,0,21,17,9.9,17]],"rest":[[0,19,24,9,11.5,9],[26,19,25,9,12.5,9],[53,19,24,9,12.3,9],[79,19,25,9,11.9,9]]}},"pet_catgray_rest":{"fly":false,"anims":{"idle":[[0,0,13,12,6.0,12],[15,0,13,12,5.9,12],[30,0,12,12,4.7,12],[44,0,14,12,6.9,12]],"rest":[[0,14,11,12,4.5,12],[13,14,11,12,4.1,12],[26,14,11,12,3.9,12],[39,14,11,12,4.5,12]]}},"pet_catcalico_rest":{"fly":false,"anims":{"idle":[[0,0,14,20,5.6,20],[16,0,13,20,5.5,20],[31,0,13,20,5.5,20],[46,0,12,20,5.3,20]],"rest":[[0,22,16,15,6.9,15],[18,22,14,9,6.4,9],[34,22,14,10,6.0,10],[50,22,14,9,6.0,9]]}},"pet_cockatiel_rest":{"fly":true,"anims":{"fly":[[0,0,12,16,4.8,6.7],[14,0,12,15,4.5,6.5],[28,0,14,10,6.8,4.2],[44,0,15,11,8.2,5.2],[61,0,12,13,6.3,6.1],[75,0,13,10,6.7,4.6]],"rest":[[0,18,16,14,9.5,7.8],[18,18,14,14,8.4,7.6],[34,18,15,12,8.6,5.9],[51,18,16,16,9.7,9.4]]}},"pet_dragon_rest":{"fly":true,"anims":{"fly":[[0,0,17,24,7.5,9.5],[19,0,17,21,6.7,8.2],[38,0,18,16,8.8,5.4],[58,0,17,14,9.0,6.6],[77,0,17,18,9.0,9.0],[96,0,17,14,8.1,5.1]],"rest":[[0,26,20,17,9.4,9.0],[22,26,20,15,9.9,7.6],[44,26,20,12,9.5,5.5],[66,26,19,12,9.1,5.8]]}},"pet_fox_rest":{"fly":false,"anims":{"idle":[[0,0,15,20,6.5,20],[17,0,15,20,6.5,20],[34,0,15,20,6.5,20],[51,0,15,20,6.4,20]],"rest":[[0,22,14,10,6.3,10],[16,22,13,10,6.1,10],[31,22,13,9,6.1,9],[46,22,14,9,6.3,9]]}},"pet_owl_rest":{"fly":true,"anims":{"fly":[[0,0,14,19,5.8,8.3],[16,0,14,17,5.9,7.1],[32,0,17,10,8.1,4.0],[51,0,15,13,7.9,6.4],[68,0,14,15,7.2,6.8],[84,0,15,11,8.1,5.1]],"rest":[[0,21,16,18,8.3,8.9],[18,21,15,19,8.1,9.5],[35,21,15,19,7.8,9.5],[52,21,16,19,8.3,9.4]]}},"pet_ferret_rest":{"fly":false,"anims":{"idle":[[0,0,20,14,7.2,14],[22,0,19,15,7.5,15],[43,0,19,15,7.4,15],[64,0,19,15,7.8,15]],"rest":[[0,17,18,15,9.2,15],[20,17,18,14,8.0,14],[40,17,20,14,9.9,14],[62,17,21,9,9.6,9]]}},"pet_boar_rest":{"fly":false,"anims":{"idle":[[0,0,21,17,7.9,17],[23,0,21,17,8.1,17],[46,0,21,17,7.9,17],[69,0,21,17,7.6,17]],"rest":[[0,19,22,18,11.3,18],[24,19,22,17,11.2,17],[48,19,21,18,11.1,18],[71,19,21,18,8.6,18]]}},"pet_toad_rest":{"fly":false,"anims":{"idle":[[0,0,16,12,7.1,12],[18,0,16,13,7.1,13],[36,0,16,12,7.1,12],[54,0,16,12,7.1,12]],"rest":[[0,15,17,13,7.0,13],[19,15,17,13,7.3,13],[38,15,17,13,7.5,13],[57,15,17,13,7.5,13]]}}};

diff --git a/CLAUDE.md b/CLAUDE.md
@@ -1,0 +1,94 @@
+# CLAUDE.md — Pack Rat Dungeon
+
+Guide for Claude Code sessions working on this project. Read this first, then grep `index.html` for the
+function names below instead of reading the whole file (it is ~4,500 lines).
+
+## What it is
+
+A side-scrolling roguelike platformer about packing a 10x4 backpack. Plain JavaScript + `<canvas>`, no
+libraries, no build step: **the whole game is `index.html`**, opened by double-click (must keep working from
+`file://`). Sprites load from `assets/`; anything missing falls back to code-drawn graphics.
+
+Owner: GitHub `Neytirix25`, repo https://github.com/Neytirix25/Backpack-Platformer (public).
+
+## The owner's standing rules
+
+- **All art is made with ChatGPT** (in their Chrome, conversation "Generate sprite sheet"), never drawn by
+  hand or generated another way. Music/SFX are synthesized in code (ChatGPT can't make audio).
+- **Ask about design choices** when a request is ambiguous (they like multiple-choice questions).
+- Commits use the repo-local identity `Neytirix25 <352376354+Neytirix25@users.noreply.github.com>`;
+  never put the owner's real email anywhere.
+- Don't push or merge unless asked. When asked: branch from `origin/main`, push, open a PR via the GitHub
+  compare page in Chrome (no `gh` CLI installed), merge it in the web UI, then `git pull` on `main`.
+- If `git push` dies with HTTP 408 / "remote end hung up", retry with `git -c http.version=HTTP/1.1 push`.
+
+## Files
+
+```
+index.html          the entire game
+CLAUDE.md           this file
+README.md           player-facing description + controls
+assets/anim/        animation sheets (<name>.png + entries in anims.js, loaded via <script src>)
+assets/items|props|tiles|bg|chars/   static sprites (items: 18 art px per backpack cell; world sprites drawn at 2x)
+tools/animate.py    slices raw ChatGPT animation sheets -> assets/anim/*.png + anims.js   (SPECS dict, ROW_FIX)
+tools/pixelate.py   slices raw item/prop/bg sheets -> assets/*   (subcommands: items2, tiles, plants, classitems <cls>, petcages, hubprops, bg <name>, floor <name>)
+assets_raw/         raw ChatGPT downloads (gitignored, local only)
+```
+
+Run Python tools with `python -P` (avoids local-module shadowing).
+
+## Map of index.html (grep these banners: `^//  [A-Z]`)
+
+| Section | What lives there |
+|---|---|
+| ART | `ART_FILES` lists every sprite to load, `drawAnim`, `drawSprite`, `whiteOf`/`blackOf` silhouettes, `BG_CROP`/`BG_FLOOR` |
+| SOUND / MUSIC | `SFX` synth, `SONGS`, `Music`, `musicDirector`, `LEVEL_POOLS`, `pickLevelSong` (never repeats the last 2) |
+| ITEMS | `ITEMS` table (shape, rarity, stats, `only:` class, `noDrop`), `LVL_MULT` merge levels, `computeStats`, `rollItem` |
+| CLASSES | `CLASSES`, `CLASS_ORDER`, `startItems`; `SAVE` (localStorage: collection, records, skins), `heroSheet(cls)`, `logRun` |
+| ENEMIES & ROOMS | `ENEMIES`, `THEMES`, `THREAT`/`threat()`/`applyThreat` (pet-team scaling), `enemyHpCurve(n)` (per-floor HP), `makeEnemy`, `newGame`, `nextRoom` |
+| THE SANCTUARY | hub between runs: `enterHub`, `HUB_SPOTS`, `updateHubPets`, `hubStations`/`hubNearest`/`hubInteract` (E key), `drawHubWorld`, `drawHubBubble`, `drawHubHUD` |
+| level generation | `SEGMENTS` ASCII templates, `buildLevel`/`tryBuild` (one storey, 18 segments x 16 tiles), `buildArena` (camp/boss/hub), `buildNav`, `populate` (enemy budget + at least 3 per screen) |
+| BUFF PLANTS | `PLANTS`, lantern reveal tiers |
+| COMBAT / CLASS ABILITIES | `atkDmg`, `playerHit`, `damageEnemy`, `hurtPlayer`, `ABILITY` table + `useAbility` |
+| UPDATE | `updatePlayer`, `updateEnemy`, `updateWorld`, camera, hazards, chasms (`fellInChasm`) |
+| PETS | `PETS` roster (10), `petSlots`, `syncPets`, `TALENTS`, `SYNERGIES`, `updatePets`, trail-following (`recordTrail`, `petTrailStep`), `petRun`/`edgeAhead`, `drawPets` |
+| CAGES | `makeCage`, `addCageGuards`, `freeCage` (also records the species in the collection) |
+| BACKPACK SCREEN / DRAWING / MAIN LOOP | pack UI, all draw functions, `update(dt)` mode switch, `frame()` |
+
+Key constants: `W=960, H=540, TILE=30, PX=2, GRAV=1500`. Tiles: `EMPTY 0, SOLID 1, ONEWAY 2, SPIKES 3, LAVA 4, CRUMBLE 5, PHASE 6`.
+
+## Game flow
+
+Title → **Sanctuary hub** (`G.hub = true`; pick class at banners, look at the mirror, records board, pet
+animals, walk through the gate) → `newGame()` → floors 1–20 (boss on 10, camps on 5 and 15, Act II from 11,
+endless after 20) → death/victory → back to the hub. `G.mode`: play / pack / pause / trans / dead / won.
+
+## Systems worth knowing before changing things
+
+- **Pets:** live only in 3 pet slots (`petSlots`), rescued from cages, level 1–10 from kills, talents via
+  right-click. Ground pets follow the hero's recorded path (`G.trail`) with a delay; fighting, resting,
+  flyers, boar charge, KO and the leash teleport use the older logic.
+- **Difficulty:** `enemyHpCurve(n) = 1 + 0.4(n-1) + 0.025(n-1)^2` (halved for Act II types); `THREAT` adds
+  HP/damage/count/attack speed per pet in your team (and a bit per pet level).
+- **Saved data (localStorage):** `packrat_coll` (species rescued), `packrat_records`, `packrat_skin`
+  (female looks), `packrat_class`, `packrat_best`, mute/music flags.
+- **Female heroes:** sheets `<cls>_f`, plus `warrior_f_block`, `archer_f_arcane`; `heroSheet()` picks them.
+
+## Art pipeline (ChatGPT in Chrome)
+
+1. Type the prompt into the ChatGPT tab (transparent background, rows/frames spelled out, "no text").
+2. In that tab, inject the helpers `window.__prd.prepLatest(name)` and `window.__grab3(name, prevSize)`
+   (they find the newest generated image and add a big green SAVE button); click the button to download.
+3. Copy the newest `*.tmp` from `Downloads` into `assets_raw/` (for animations: `anim_<name>.png`), remove
+   white backgrounds/halos if needed, then run `tools/animate.py <name>` or the matching `pixelate.py` command.
+   Check `assets_raw/anim_<name>_check.png` to see the sliced frames.
+4. New sprites must be added to `ART_FILES` (static) — animation sheets register themselves via `anims.js`.
+
+## Testing
+
+There is no test runner in the repo. Past sessions used headless Node scripts that stub canvas/audio and
+`eval` the game's `<script>` (extract it with: `sed -n '/<script>$/,/<\/script>/p' index.html | sed '1d;$d'`).
+Always at least syntax-check after edits: `node --check` on the extracted script. To preview visually, run
+`python -P -m http.server 8765 --bind 127.0.0.1` in this folder and open it in a new Chrome tab (freeze the
+loop with `window.__U = update; window.update = () => {}` and step `__U(1/60)` + `draw()` manually, because
+background tabs throttle animation frames).
